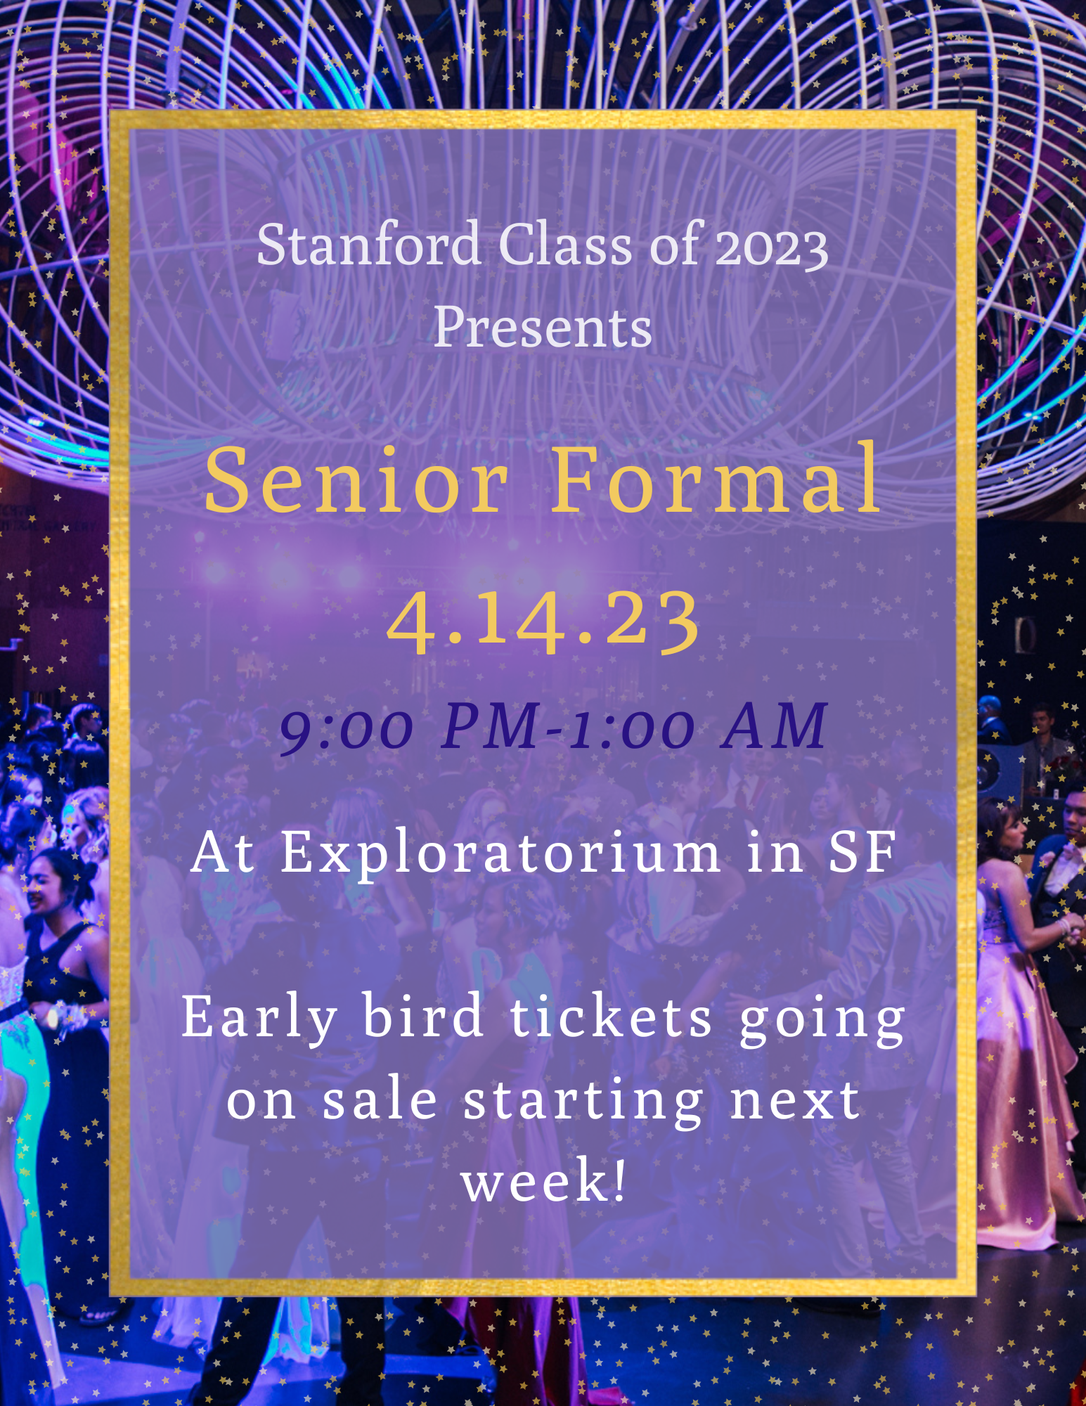
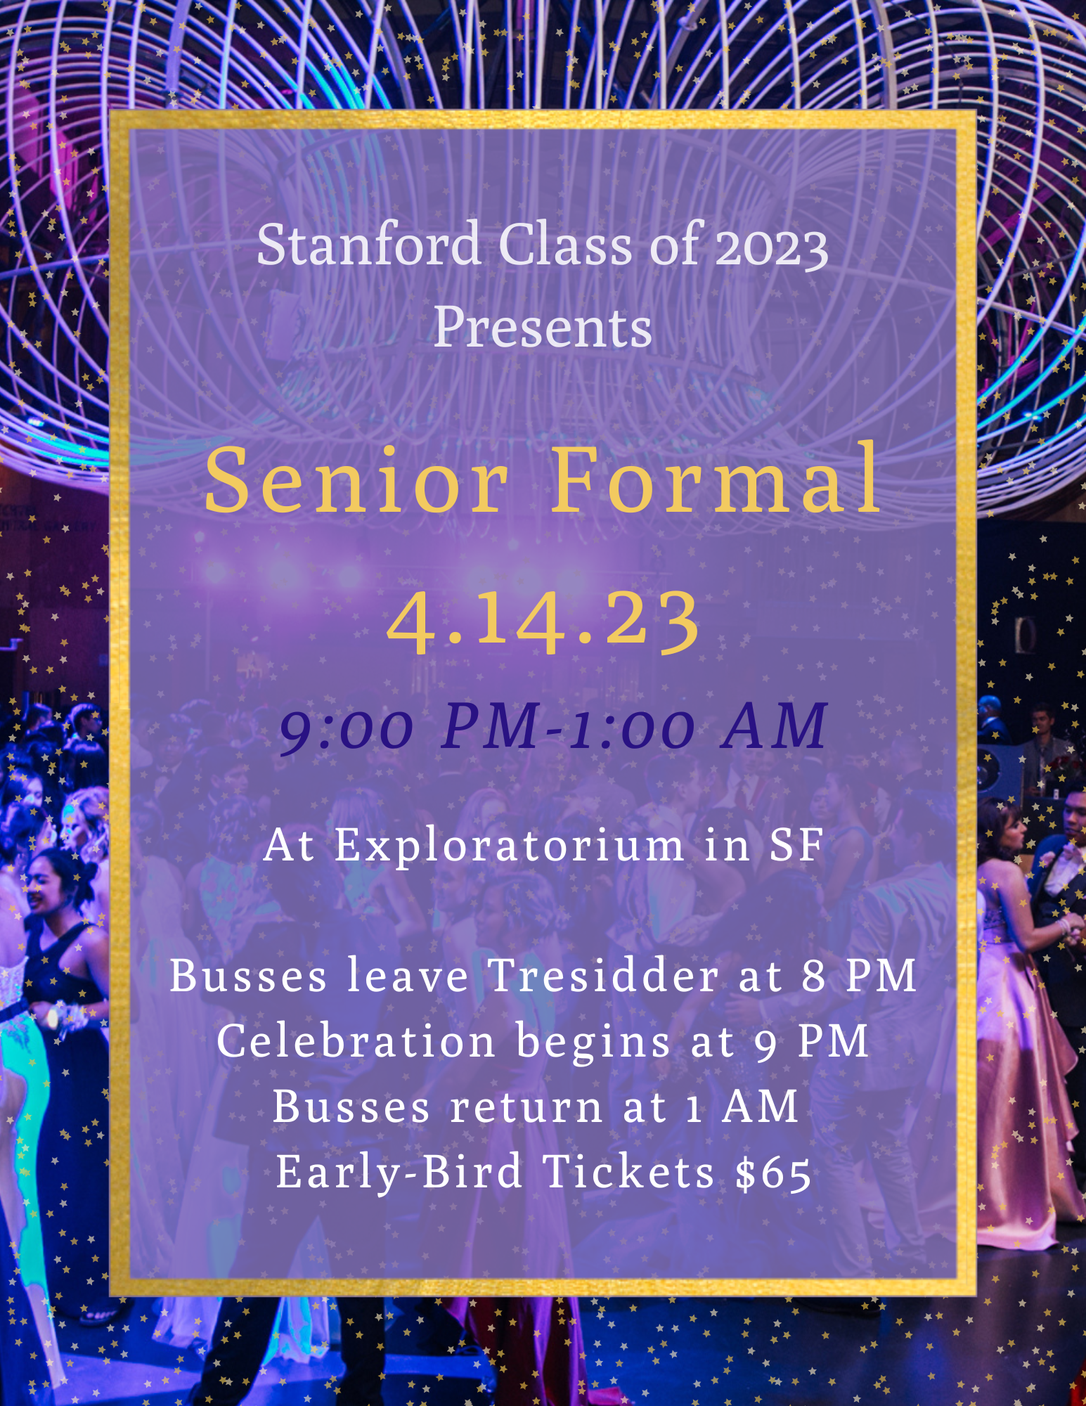
Final update before publishing

Changed region(s): [[0.1553, 0.682, 0.8388, 0.868], [0.1864, 0.589, 0.8388, 0.62]]

diff --git a/faq.html b/faq.html
@@ -9,7 +9,9 @@
   <meta content="" name="description">
   <meta content="" name="keywords">
 
-  <link href="https://fonts.googleapis.com/css2?family=Alumni+Sans:ital,wght@0,300;0,400;0,500;0,600;0,700;0,800;1,300;1,400;1,500;1,600;1,700;1,800&family=Bubbler+One&family=Charm:wght@400;700&display=swap" rel="stylesheet">  
+  <link rel="preconnect" href="https://fonts.googleapis.com">
+  <link rel="preconnect" href="https://fonts.gstatic.com" crossorigin>
+  <link href="https://fonts.googleapis.com/css2?family=Alumni+Sans:ital,wght@0,300;0,400;0,500;0,600;0,700;0,800;1,300;1,400;1,500;1,600;1,700;1,800&family=Bubbler+One&family=Lora:ital,wght@0,400;0,500;0,600;0,700;1,400;1,500;1,600;1,700&display=swap" rel="stylesheet">
   
   <link href="assets/vendor/aos/aos.css" rel="stylesheet">
   <link href="assets/vendor/bootstrap/css/bootstrap.min.css" rel="stylesheet">
@@ -34,7 +36,6 @@
     <div class="container-fluid container-xxl d-flex align-items-center">
 
       <div id="logo" class="me-auto">
-        <!-- <h1><a href="index.html">The<span>Event</span></a></h1>-->
         <a href="index.html" class="scrollto"><img src="assets/img/small_logo.png" alt="class of 2023 logo"></a>
       </div>
 
@@ -49,7 +50,7 @@
         </ul>
         <i class="bi bi-list mobile-nav-toggle"></i>
       </nav>
-      <a class="buy-tickets scrollto" href="#buy-tickets">Buy Tickets</a>
+      <a class="buy-tickets scrollto" href="https://www.eventbrite.com/e/senior-formal-2023-tickets-576509985887">Buy Tickets</a>
 
     </div>
   </header>
@@ -71,37 +72,38 @@
             <ul class="faq-list">
 
               <li>
-                <div data-bs-toggle="collapse" class="collapsed question" href="#faq1">Guest policy?<i class="bi bi-chevron-down icon-show"></i><i class="bi bi-chevron-up icon-close"></i></div>
+                <div data-bs-toggle="collapse" class="collapsed question" href="#faq1">What is the guest policy?<i class="bi bi-chevron-down icon-show"></i><i class="bi bi-chevron-up icon-close"></i></div>
                 <div id="faq1" class="collapse" data-bs-parent=".faq-list">
                   <p>
-                    Lorem ipsum dolor sit amet consectetur adipisicing elit. Dolores earum minima doloribus modi aliquam laborum velit animi amet repellendus ratione hic dolor laudantium, inventore labore harum maiores ut ea doloremque? Lorem ipsum dolor sit, amet consectetur adipisicing elit. Eaque, placeat ut eius natus ratione alias perferendis ullam laborum itaque. Nesciunt magnam, cum doloremque voluptatum nobis ipsa hic veniam ad molestias!
+                    You are welcome to bring a +1 to Senior Formal! They will have to purchase a ticket through the Eventbrite as well. 
                   </p>
                 </div>
               </li>
 
               <li>
-                <div data-bs-toggle="collapse" href="#faq2" class="collapsed question">Shuttles?<i class="bi bi-chevron-down icon-show"></i><i class="bi bi-chevron-up icon-close"></i></div>
+                <div data-bs-toggle="collapse" href="#faq2" class="collapsed question">What will the transportation situation be?<i class="bi bi-chevron-down icon-show"></i><i class="bi bi-chevron-up icon-close"></i></div>
                 <div id="faq2" class="collapse" data-bs-parent=".faq-list">
                   <p>
-                    Lorem, ipsum dolor sit amet consectetur adipisicing elit. Distinctio deleniti, quis sint, amet laboriosam natus ab dignissimos debitis iusto quod, ipsam ea nulla! Velit, nam culpa! Illo tempora aliquam accusamus. Lorem ipsum dolor sit amet consectetur adipisicing elit. Laboriosam molestias asperiores nulla ab dolorum! Dolor a, dicta repellat amet voluptate velit veritatis enim nesciunt est. Eum inventore quibusdam animi molestiae.
+                    There will be buses going to and from the Exploratorium which can be accessed through purchasing a bus ticket. 
+                    Buses will be leaving from Tresidder at 8 PM and returning from the Exploratorium at 1 AM. There are 1200 bus tickets available!
                   </p>
                 </div>
               </li>
 
               <li>
-                <div data-bs-toggle="collapse" href="#faq3" class="collapsed question">What can I bring?<i class="bi bi-chevron-down icon-show"></i><i class="bi bi-chevron-up icon-close"></i></div>
+                <div data-bs-toggle="collapse" href="#faq3" class="collapsed question">What should I bring?<i class="bi bi-chevron-down icon-show"></i><i class="bi bi-chevron-up icon-close"></i></div>
                 <div id="faq3" class="collapse" data-bs-parent=".faq-list">
                   <p>
-                    Lorem ipsum dolor sit amet consectetur adipisicing elit. Earum laborum nam est distinctio aut! Similique, qui excepturi accusantium animi rerum nobis quibusdam ipsam. Cum ab illum, adipisci rem quibusdam deserunt! Lorem, ipsum dolor sit amet consectetur adipisicing elit. Qui vitae numquam impedit tenetur eaque, necessitatibus excepturi minima facilis asperiores, odio, laboriosam deleniti nobis molestias voluptates consectetur expedita perspiciatis quaerat at?
+                    Be sure to bring your government ID (to check if you are 21+) and your Eventbrite ticket.
                   </p>
                 </div>
               </li>
 
               <li>
-                <div data-bs-toggle="collapse" href="#faq4" class="collapsed question">Dress code?<i class="bi bi-chevron-down icon-show"></i><i class="bi bi-chevron-up icon-close"></i></div>
+                <div data-bs-toggle="collapse" href="#faq4" class="collapsed question">What should I not bring?<i class="bi bi-chevron-down icon-show"></i><i class="bi bi-chevron-up icon-close"></i></div>
                 <div id="faq4" class="collapse" data-bs-parent=".faq-list">
                   <p>
-                    Lorem ipsum dolor, sit amet consectetur adipisicing elit. Aliquam, commodi ipsam provident quasi, adipisci, praesentium est fugit maxime dignissimos ad autem doloribus. Alias quidem eaque consectetur quam, commodi tempore nesciunt. Lorem ipsum dolor sit amet consectetur adipisicing elit. Impedit ad aliquid ea, est corporis quisquam repudiandae blanditiis totam enim minima vel facere perferendis fugit sint. Provident illo repudiandae ad. Hic.
+                    Do not bring any outside alcohol, substances, or devices; they will be confiscated at the door.
                   </p>
                 </div>
               </li>

diff --git a/about.html b/about.html
@@ -9,7 +9,9 @@
   <meta content="" name="description">
   <meta content="" name="keywords">
 
-  <link href="https://fonts.googleapis.com/css2?family=Alumni+Sans:ital,wght@0,300;0,400;0,500;0,600;0,700;0,800;1,300;1,400;1,500;1,600;1,700;1,800&family=Bubbler+One&family=Charm:wght@400;700&display=swap" rel="stylesheet">  
+  <link rel="preconnect" href="https://fonts.googleapis.com">
+  <link rel="preconnect" href="https://fonts.gstatic.com" crossorigin>
+  <link href="https://fonts.googleapis.com/css2?family=Alumni+Sans:ital,wght@0,300;0,400;0,500;0,600;0,700;0,800;1,300;1,400;1,500;1,600;1,700;1,800&family=Bubbler+One&family=Lora:ital,wght@0,400;0,500;0,600;0,700;1,400;1,500;1,600;1,700&display=swap" rel="stylesheet">
   
   <link href="assets/vendor/aos/aos.css" rel="stylesheet">
   <link href="assets/vendor/bootstrap/css/bootstrap.min.css" rel="stylesheet">
@@ -34,7 +36,6 @@
     <div class="container-fluid container-xxl d-flex align-items-center">
 
       <div id="logo" class="me-auto">
-        <!-- <h1><a href="index.html">The<span>Event</span></a></h1>-->
         <a href="index.html" class="scrollto"><img src="assets/img/small_logo.png" alt="class of 2023 logo"></a>
       </div>
 
@@ -49,7 +50,7 @@
         </ul>
         <i class="bi bi-list mobile-nav-toggle"></i>
       </nav>
-      <a class="buy-tickets scrollto" href="#buy-tickets">Buy Tickets</a>
+      <a class="buy-tickets scrollto" href="https://www.eventbrite.com/e/senior-formal-2023-tickets-576509985887">Buy Tickets</a>
 
     </div>
   </header>
@@ -70,25 +71,31 @@
 
           <div class="col-md-6">
             <div class="details">
-              <!-- <div class="social">
-                <a href=""><i class="bi bi-twitter"></i></a>
-                <a href=""><i class="bi bi-facebook"></i></a>
-                <a href=""><i class="bi bi-instagram"></i></a>
-                <a href=""><i class="bi bi-linkedin"></i></a>
-              </div> -->
               <p>
-                You're invited to Stanford's Class of 2023 Senior Formal!! Come spend a memorable night with your 
-                classmates at the Exploratorium in San Fransisco, on April 14th from 9 PM - 1 AM. There will be food, 
-                photo booths, <a href="https://www.instagram.com/djasap3x/?hl=en">DJ ASAP</a>, and a ton of fun! 
+                You're invited to Stanford's Class of 2023 Senior Formal!! Come spend an unforgettable night with your 
+                classmates at the Exploratorium in San Francisco, on April 14th from 9 PM - 1 AM. There will be food, drinks, 
+                photo booths, <a href="https://www.instagram.com/djasap3x/?hl=en">DJ ASAP</a>, and lots of exhibits to explore. 
                 Be sure to purchase a ticket through our Eventbrite to reserve your spot. We can't wait to see 
                 you at the Exploratorium on April 14! 
               </p>
+
+              <h2 class="my-2 my-md-0">Ticket Information</h2>
+              <ul>
+                <li><strong>Opportunity-Fund Eligible:</strong> $50</li>
+                <li><strong>Early-Bird Pricing:</strong> $65, <em>300 tickets available</em></li>
+                <li><strong>General Admission:</strong> $75, <em>1000 tickets available</em></li>
+                <li><strong>Late:</strong> $100, <em>500 tickets available</em></li>
+                <li><strong>Bus Tickets:</strong> $25, <em>Needed to ride the busses to and from the Exploratorium</em></li>
+              </ul>
+
+              <p><strong><em>Students eligible for the Opportunity Fund will receive a discount code shortly from the financial aid office, 
+                which can be applied to the General Admission ticket for a $25 discount</em></strong></p>
 
               <h2 class="my-2 my-md-0">The Menu</h2>
               <ul>
                 <li>All Natural Beef Sliders</li>
                   <ul>
-                    <li>With point reyes blue cheese, carmelized onion & arugula</li>
+                    <li>With point reyes blue cheese, caramelized onion & arugula</li>
                   </ul>
                 <li>Grilled Zucchini & Red Bell Pepper in a Tomato Wrap</li>
                   <ul>
@@ -106,13 +113,16 @@
                   <ul>
                     <li>Chocolate Chip, Oatmeal Raisin, & Snickerdoodle</li>
                   </ul>
-                <li>Non-Alcoholics</li>
+                <li>BEVERAGES</li>
                   <ul>
-                    <li>Water, sparkling water, coke, diet coke, sprite</li>
-                  </ul>
-                <li>Hosted Bar</li>
-                  <ul>
-                    <li>2 drink tickets per student for beer, wine, and champagne cash bar thereafter</li>
+                    <li>Non-Alcoholics</li>
+                      <ul>
+                        <li>Water, sparkling water, coke, diet coke, sprite</li>
+                      </ul>
+                    <li>Cash Bar</li>
+                      <ul>
+                        <li>Serving beer, wine, and champagne</li>
+                      </ul>
                   </ul>
               </ul>
             </div>

diff --git a/rules.html b/rules.html
@@ -9,7 +9,9 @@
   <meta content="" name="description">
   <meta content="" name="keywords">
 
-  <link href="https://fonts.googleapis.com/css2?family=Alumni+Sans:ital,wght@0,300;0,400;0,500;0,600;0,700;0,800;1,300;1,400;1,500;1,600;1,700;1,800&family=Bubbler+One&family=Charm:wght@400;700&display=swap" rel="stylesheet">  
+  <link rel="preconnect" href="https://fonts.googleapis.com">
+  <link rel="preconnect" href="https://fonts.gstatic.com" crossorigin>
+  <link href="https://fonts.googleapis.com/css2?family=Alumni+Sans:ital,wght@0,300;0,400;0,500;0,600;0,700;0,800;1,300;1,400;1,500;1,600;1,700;1,800&family=Bubbler+One&family=Lora:ital,wght@0,400;0,500;0,600;0,700;1,400;1,500;1,600;1,700&display=swap" rel="stylesheet">
   
   <link href="assets/vendor/aos/aos.css" rel="stylesheet">
   <link href="assets/vendor/bootstrap/css/bootstrap.min.css" rel="stylesheet">
@@ -34,7 +36,6 @@
     <div class="container-fluid container-xxl d-flex align-items-center">
 
       <div id="logo" class="me-auto">
-        <!-- <h1><a href="index.html">The<span>Event</span></a></h1>-->
         <a href="index.html" class="scrollto"><img src="assets/img/small_logo.png" alt="class of 2023 logo"></a>
       </div>
 
@@ -49,7 +50,7 @@
         </ul>
         <i class="bi bi-list mobile-nav-toggle"></i>
       </nav>
-      <a class="buy-tickets scrollto" href="#buy-tickets">Buy Tickets</a>
+      <a class="buy-tickets scrollto" href="https://www.eventbrite.com/e/senior-formal-2023-tickets-576509985887">Buy Tickets</a>
 
     </div>
   </header>
@@ -61,38 +62,26 @@
         <div class="section-header">
           <h2>Rules & Security</h2>
           <p>In order to ensure a fun and safe night, the Exploratorium has created certain rules and security 
-            measures that students must adhere to in order to attend.</p>
+            measures that are important to be aware of.</p>
         </div>
 
         <div class="row rules">
-          <!-- <div class="col-md-6">
-            <h2>Why Rules?</h2>
-            <p>
-              Lorem ipsum dolor sit amet consectetur, adipisicing elit. Voluptatum accusamus ea facere animi 
-              maiores eaque sint, illo est possimus ipsam facilis repudiandae quis quos corrupti, dignissimos, 
-              aspernatur nesciunt odio laboriosam? Lorem ipsum dolor sit amet consectetur, adipisicing elit. Eius 
-              excepturi optio magnam ratione aperiam neque repellat nostrum provident natus similique numquam, 
-              est saepe rerum quo? Earum adipisci excepturi vitae odit.
-            </p>
-          </div> -->
-
-          <!-- <div class="col-sm-12 col-md-6"> -->
             <div class="details">
               <h2>The Rules</h2>
               <ol>
                 <li>You will need to bring your government ID to be allowed in (or passport for international students).</li>
-                <li>Intoxicated students may be denied entry.</li>
-                <li>Full pat-downs of students will take place.</li>
+                <li>Visibly intoxicated students will be denied entry.</li>
+                <li>Students will be pat down at entry (checking for alcohol and prohibited devices)</li>
                 <li>All bags will be searched at entry for alcohol and substances.</li>
                 <li>No Ins & Outs; If you leave you will not be allowed back in.</li>
-                <li>Vaping is not permitted indoors, and will be confiscated.</li>
+                <li>Do not bring vapes into the venue. Vaping is not permitted indoors, and will be confiscated by security. 
+                  The fire alarms are also very sensitive and triggering them will require everyone to evacuate the venue.</li>
                 <li>The Exploratorium has a zero substance tolerance policy, if anyone is found using a controlled substance 
                   they will be removed immediately.</li>
-                <li>The West Gallery will be used as the 21+ Biergarten. Alcohol will not be allowed to leave the area, you will 
-                  need to finish your drink in the Biergarten. </li>
+                <li>The Central Gallery will be restricted to guests who are 21+ because that is where alcohol will be served. You are not 
+                  allowed to bring alcohol outside of the Central Gallery.</li>
               </ol>
             </div>
-          <!-- </div> -->
 
           <p class="m-1">If you are denied entry or kicked out of the venue, you will be financially responsible for getting yourself back to campus. Senior Leadership cannot help financially.</p>
         </div>

diff --git a/news.html b/news.html
@@ -9,7 +9,9 @@
   <meta content="" name="description">
   <meta content="" name="keywords">
 
-  <link href="https://fonts.googleapis.com/css2?family=Alumni+Sans:ital,wght@0,300;0,400;0,500;0,600;0,700;0,800;1,300;1,400;1,500;1,600;1,700;1,800&family=Bubbler+One&family=Charm:wght@400;700&display=swap" rel="stylesheet">  
+  <link rel="preconnect" href="https://fonts.googleapis.com">
+  <link rel="preconnect" href="https://fonts.gstatic.com" crossorigin>
+  <link href="https://fonts.googleapis.com/css2?family=Alumni+Sans:ital,wght@0,300;0,400;0,500;0,600;0,700;0,800;1,300;1,400;1,500;1,600;1,700;1,800&family=Bubbler+One&family=Lora:ital,wght@0,400;0,500;0,600;0,700;1,400;1,500;1,600;1,700&display=swap" rel="stylesheet">
   
   <link href="assets/vendor/aos/aos.css" rel="stylesheet">
   <link href="assets/vendor/bootstrap/css/bootstrap.min.css" rel="stylesheet">
@@ -34,7 +36,6 @@
     <div class="container-fluid container-xxl d-flex align-items-center">
 
       <div id="logo" class="me-auto">
-        <!-- <h1><a href="index.html">The<span>Event</span></a></h1>-->
         <a href="index.html" class="scrollto"><img src="assets/img/small_logo.png" alt="class of 2023 logo"></a>
       </div>
 
@@ -51,7 +52,7 @@
         </ul>
         <i class="bi bi-list mobile-nav-toggle"></i>
       </nav>
-      <a class="buy-tickets scrollto" href="#buy-tickets">Buy Tickets</a>
+      <a class="buy-tickets scrollto" href="https://www.eventbrite.com/e/senior-formal-2023-tickets-576509985887">Buy Tickets</a>
 
     </div>
   </header>
@@ -73,12 +74,6 @@
           <div class="col-md-6">
             <div class="details">
               <h2 class="my-2 my-md-0">Email Subject #1</h2>
-              <!-- <div class="social">
-                <a href=""><i class="bi bi-twitter"></i></a>
-                <a href=""><i class="bi bi-facebook"></i></a>
-                <a href=""><i class="bi bi-instagram"></i></a>
-                <a href=""><i class="bi bi-linkedin"></i></a>
-              </div> -->
               <p>Voluptatem perferendis sed assumenda voluptatibus. Laudantium molestiae sint. Doloremque odio dolore dolore sit. Quae labore alias ea omnis ex expedita sapiente molestias atque. Optio voluptas et.</p>
 
               <p>Aboriosam inventore dolorem inventore nam est esse. Aperiam voluptatem nisi molestias laborum ut. Porro dignissimos eum. Tempore dolores minus unde est voluptatum incidunt ut aperiam.</p>
@@ -99,12 +94,6 @@
           <div class="col-md-6">
             <div class="details">
               <h2 class="my-2 my-md-0">Email Subject #2</h2>
-              <!-- <div class="social">
-                <a href=""><i class="bi bi-twitter"></i></a>
-                <a href=""><i class="bi bi-facebook"></i></a>
-                <a href=""><i class="bi bi-instagram"></i></a>
-                <a href=""><i class="bi bi-linkedin"></i></a>
-              </div> -->
               <p>Voluptatem perferendis sed assumenda voluptatibus. Laudantium molestiae sint. Doloremque odio dolore dolore sit. Quae labore alias ea omnis ex expedita sapiente molestias atque. Optio voluptas et.</p>
 
               <p>Aboriosam inventore dolorem inventore nam est esse. Aperiam voluptatem nisi molestias laborum ut. Porro dignissimos eum. Tempore dolores minus unde est voluptatum incidunt ut aperiam.</p>

diff --git a/index.html b/index.html
@@ -9,8 +9,10 @@
   <meta content="" name="description">
   <meta content="" name="keywords">
 
-  <link href="https://fonts.googleapis.com/css2?family=Alumni+Sans:ital,wght@0,300;0,400;0,500;0,600;0,700;0,800;1,300;1,400;1,500;1,600;1,700;1,800&family=Bubbler+One&family=Charm:wght@400;700&display=swap" rel="stylesheet">  
-  
+  <link rel="preconnect" href="https://fonts.googleapis.com">
+  <link rel="preconnect" href="https://fonts.gstatic.com" crossorigin>
+  <link href="https://fonts.googleapis.com/css2?family=Alumni+Sans:ital,wght@0,300;0,400;0,500;0,600;0,700;0,800;1,300;1,400;1,500;1,600;1,700;1,800&family=Bubbler+One&family=Lora:ital,wght@0,400;0,500;0,600;0,700;1,400;1,500;1,600;1,700&display=swap" rel="stylesheet">
+
   <link href="assets/vendor/aos/aos.css" rel="stylesheet">
   <link href="assets/vendor/bootstrap/css/bootstrap.min.css" rel="stylesheet">
   <link href="assets/vendor/bootstrap-icons/bootstrap-icons.css" rel="stylesheet">
@@ -48,7 +50,7 @@
         </ul>
         <i class="bi bi-list mobile-nav-toggle"></i>
       </nav>
-      <a class="buy-tickets scrollto" href="#buy-tickets">Buy Tickets</a>
+      <a class="buy-tickets scrollto" href="https://www.eventbrite.com/e/senior-formal-2023-tickets-576509985887">Buy Tickets</a>
 
     </div>
   </header>
@@ -58,7 +60,7 @@
       <h1 class="mb-4 pb-0">Stanford<br><span>Senior</span> Formal</h1>
       <p class="mb-4 pb-0">April 14th 9 PM - 1 AM<br> The Exploratorium, San Francisco</p>
       <h1 class="mb-4 pb-0" id="countdownTimer"></h1>
-      <a class="about-btn scrollto" href="#buy-tickets">Buy Tickets</a>
+      <a class="about-btn scrollto" href="https://www.eventbrite.com/e/senior-formal-2023-tickets-576509985887">Buy Tickets</a>
     </div>
   </section>
 

diff --git a/gallery.html b/gallery.html
@@ -9,7 +9,9 @@
   <meta content="" name="description">
   <meta content="" name="keywords">
 
-  <link href="https://fonts.googleapis.com/css2?family=Alumni+Sans:ital,wght@0,300;0,400;0,500;0,600;0,700;0,800;1,300;1,400;1,500;1,600;1,700;1,800&family=Bubbler+One&family=Charm:wght@400;700&display=swap" rel="stylesheet">  
+  <link rel="preconnect" href="https://fonts.googleapis.com">
+  <link rel="preconnect" href="https://fonts.gstatic.com" crossorigin>
+  <link href="https://fonts.googleapis.com/css2?family=Alumni+Sans:ital,wght@0,300;0,400;0,500;0,600;0,700;0,800;1,300;1,400;1,500;1,600;1,700;1,800&family=Bubbler+One&family=Lora:ital,wght@0,400;0,500;0,600;0,700;1,400;1,500;1,600;1,700&display=swap" rel="stylesheet">
   
   <link href="assets/vendor/aos/aos.css" rel="stylesheet">
   <link href="assets/vendor/bootstrap/css/bootstrap.min.css" rel="stylesheet">
@@ -34,7 +36,6 @@
     <div class="container-fluid container-xxl d-flex align-items-center">
 
       <div id="logo" class="me-auto">
-        <!-- <h1><a href="index.html">The<span>Event</span></a></h1>-->
         <a href="index.html" class="scrollto"><img src="assets/img/small_logo.png" alt="class of 2023 logo"></a>
       </div>
 
@@ -51,7 +52,7 @@
         </ul>
         <i class="bi bi-list mobile-nav-toggle"></i>
       </nav>
-      <a class="buy-tickets scrollto" href="#buy-tickets">Buy Tickets</a>
+      <a class="buy-tickets scrollto" href="https://www.eventbrite.com/e/senior-formal-2023-tickets-576509985887">Buy Tickets</a>
 
     </div>
   </header>

diff --git a/venue.html b/venue.html
@@ -9,7 +9,9 @@
   <meta content="" name="description">
   <meta content="" name="keywords">
 
-  <link href="https://fonts.googleapis.com/css2?family=Alumni+Sans:ital,wght@0,300;0,400;0,500;0,600;0,700;0,800;1,300;1,400;1,500;1,600;1,700;1,800&family=Bubbler+One&family=Charm:wght@400;700&display=swap" rel="stylesheet">  
+  <link rel="preconnect" href="https://fonts.googleapis.com">
+  <link rel="preconnect" href="https://fonts.gstatic.com" crossorigin>
+  <link href="https://fonts.googleapis.com/css2?family=Alumni+Sans:ital,wght@0,300;0,400;0,500;0,600;0,700;0,800;1,300;1,400;1,500;1,600;1,700;1,800&family=Bubbler+One&family=Lora:ital,wght@0,400;0,500;0,600;0,700;1,400;1,500;1,600;1,700&display=swap" rel="stylesheet">
   
   <link href="assets/vendor/aos/aos.css" rel="stylesheet">
   <link href="assets/vendor/bootstrap/css/bootstrap.min.css" rel="stylesheet">
@@ -34,7 +36,6 @@
     <div class="container-fluid container-xxl d-flex align-items-center">
 
       <div id="logo" class="me-auto">
-        <!-- <h1><a href="index.html">The<span>Event</span></a></h1>-->
         <a href="index.html" class="scrollto"><img src="assets/img/small_logo.png" alt="class of 2023 logo"></a>
       </div>
 
@@ -49,7 +50,7 @@
         </ul>
         <i class="bi bi-list mobile-nav-toggle"></i>
       </nav>
-      <a class="buy-tickets scrollto" href="#buy-tickets">Buy Tickets</a>
+      <a class="buy-tickets scrollto" href="https://www.eventbrite.com/e/senior-formal-2023-tickets-576509985887">Buy Tickets</a>
 
     </div>
   </header>

diff --git a/assets/css/style.css b/assets/css/style.css
@@ -11,7 +11,7 @@
 body {
   background: #fff;
   color: rgba(50, 50, 50, 0.98);
-  font-family: "Bubbler One", sans-serif;
+  font-family: "Lora", sans-serif;
   font-weight: 400;
 }
 
